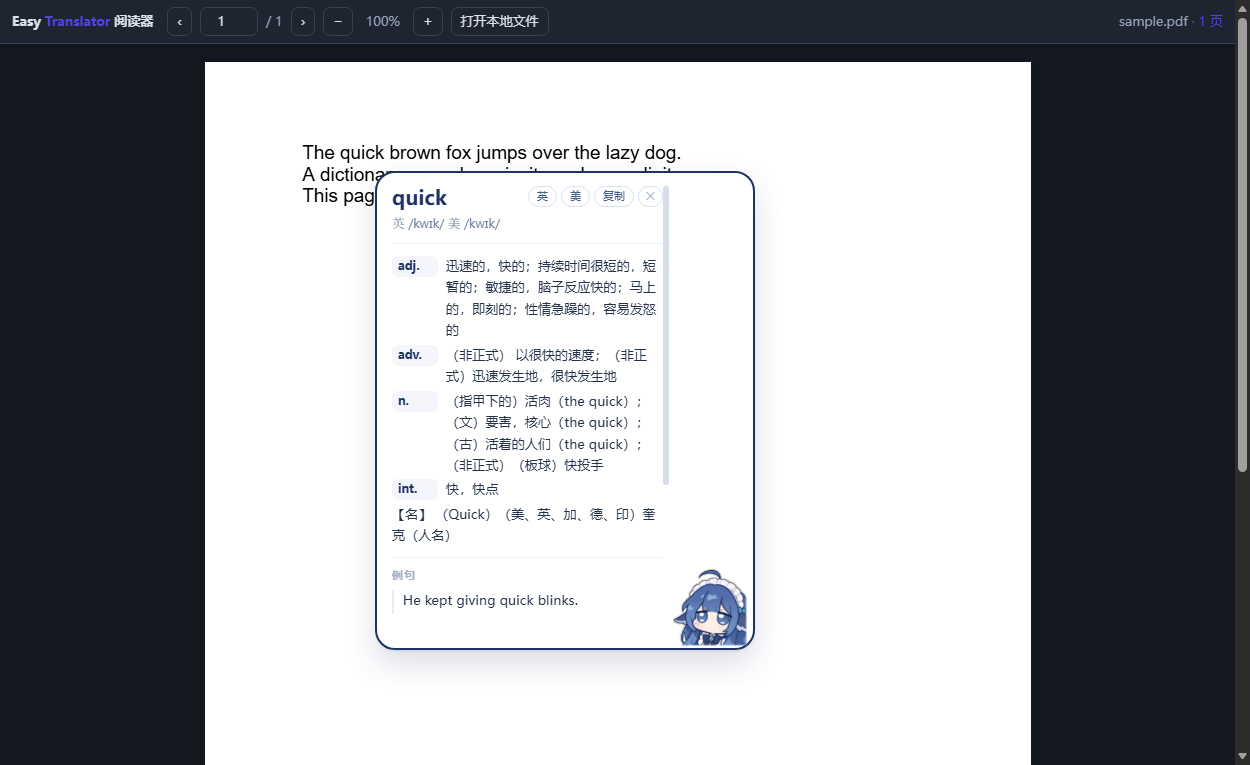
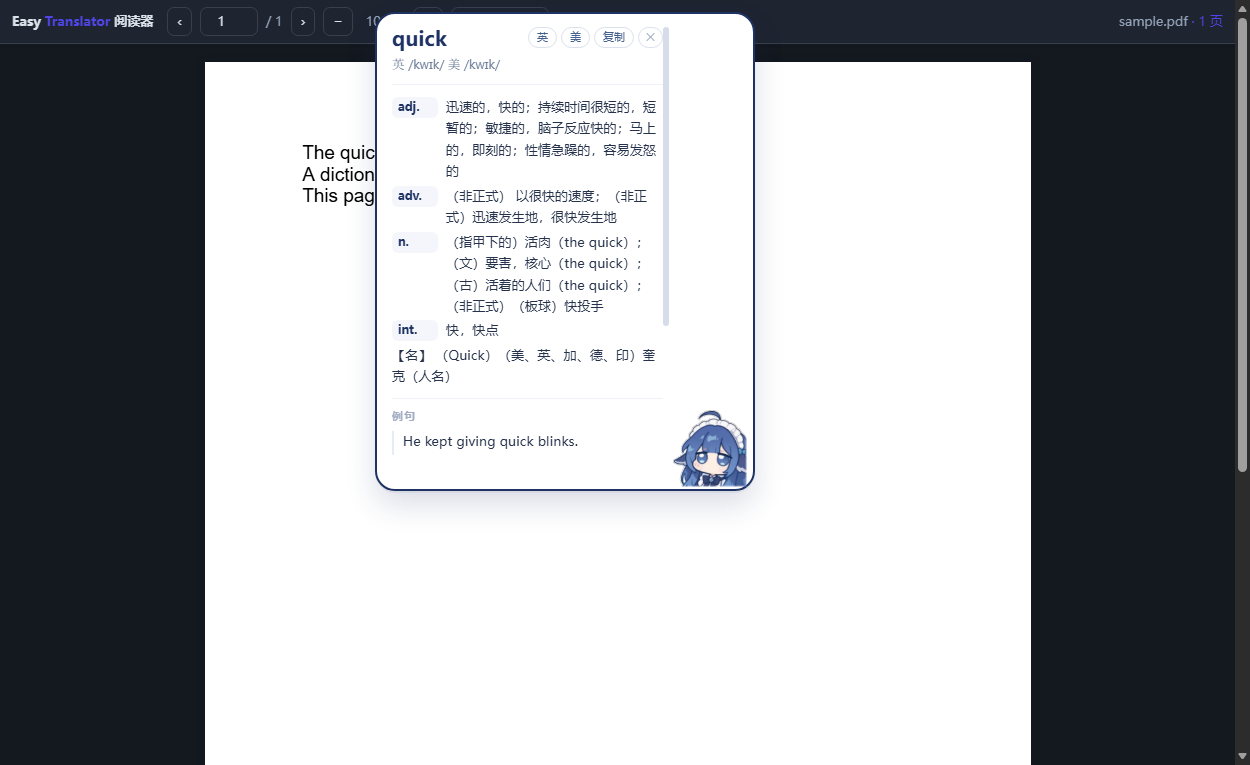
fix(css): 高对比度下卡片被剥成空框（用户实测「框出来了、文字不见」）
诊断（机器取证，不是猜）：
  · Edge 扩展设置存在 **Secure Preferences**，我之前的 diagnose 读 Preferences → 误判「没装」；
    改从两个文件合并读（并支持按 path 匹配未打包加载），工具不再误导。
  · 实际加载路径 = 项目目录，其 content/hover-core.js 与仓库 **md5 完全一致**（144eaeab…）。
  · 本机 **Windows 高对比度是开着的**（HKCU\\...\\HighContrast Flags=126）——
    强制颜色模式下浏览器会替换作者指定的 background/color，自绘卡片就被剥成空框，
    与用户截图的像素特征（白框 + 几乎无墨迹）吻合。
修法：.et-card 声明 forced-color-adjust: none（卡片是自成一体的阅读块，
保持设计一致），并给出 @media (forced-colors: active) 的系统色兜底（Canvas/CanvasText）。
顺带清掉 check-ui.py 里解析已删除 .et-tail 的死代码（上轮删规则没删解析 → 检查器崩），
并把「高对比度不被剥成空框」钉成常驻不变量；预览图逐像素比对改为只比全不透明处
（羽化后边缘半透明，合成图与原始像素不可直接比）。

验证：check:ui 21/21、真机 E2E 37/37、打包自检 18/18、npm test 28/28。

diff --git a/content/card.css b/content/card.css
@@ -53,6 +53,24 @@
 
 /* 尾点按用户要求**不画**（曾压在鲸鱼娘脸上，像多了一个黑色小圈圈） */
 
+/* —— 高对比度/强制颜色模式 ——
+   Windows 开启「高对比度」时，浏览器会把作者指定的 background/color 替换成系统色，
+   自绘卡片会被剥成一个空框（用户实测：框出来了、文字不见）。
+   卡片是自成一体的阅读块，这里声明**不参与**强制替换，保证和设计一致、始终可读；
+   同时用系统色兜底：万一浏览器仍强制，至少边框与文字是高对比的。 */
+.et-card {
+  forced-color-adjust: none;
+}
+@media (forced-colors: active) {
+  .et-card {
+    background: Canvas;
+    border: 2px solid CanvasText;
+  }
+  .et-word, .et-pos, .et-meaning, .et-ex-en, .et-ex-zh, .et-phon, .et-message, .et-foot, .et-source {
+    color: CanvasText !important;
+  }
+}
+
 /* —— 鲸鱼娘：贴在**整个对话框的右下角**（白底内，不透明，任何页面都看得清） —— */
 .et-mascot {
   position: absolute;

diff --git a/tools/check-ui.py b/tools/check-ui.py
@@ -148,19 +148,18 @@ def px_of(block, prop):
 
 
 m_block = css.split(".et-mascot {")[1].split("}")[0]
-t_block = css.split(".et-tail {")[1].split("}")[0]
 m_right, m_bottom, m_w = px_of(m_block, "right"), px_of(m_block, "bottom"), px_of(m_block, "width")
-t_right, t_bottom = px_of(t_block, "right"), px_of(t_block, "bottom")
 CARD_W, CARD_H = 380, 502          # 布局探针实测的卡片尺寸
 m_h = round(m_w * art.height / art.width)
 m_left, m_top = CARD_W - m_right - m_w, CARD_H - m_bottom - m_h
-css_mouth = (m_left + round(m_w * MOUTH[0]), m_top + round(m_h * MOUTH[1]))
-dots_right, dots_bottom = CARD_W - t_right, CARD_H - t_bottom + 6   # 第二颗点有 -6px 下边距
 check("CSS 里她贴在整个对话框的右下角", m_right <= 10 and m_bottom <= 4,
       "right=%s bottom=%s" % (m_right, m_bottom))
 check("CSS 是白底气泡（不透明背景）", "background: #ffffff" in css and ".et-card" in css)
 check("CSS 里尾点已按要求去掉（.et-tail/.et-dot 不再有绘制规则）",
       ".et-tail {" not in css and ".et-dot {" not in css)
+# 用户实测「框出来了、文字不见」→ 根因是 Windows 高对比度下的强制颜色替换（机器 Flags=126）
+check("CSS 在高对比度下不会被剥成空框（forced-color-adjust + 系统色兜底）",
+      "forced-color-adjust: none" in css and "@media (forced-colors: active)" in css)
 
 print("\n⑤ 资产新鲜度（预览图是否由当前立绘生成）")
 prev_path = os.path.join(ROOT, "docs", "mascot-preview.png")
@@ -172,8 +171,8 @@ if os.path.exists(prev_path):
     for y in range(0, big.height, 2):
         for x in range(0, big.width, 2):
             r, g, b, a = bpx[x, y]
-            if a < 120:
-                continue
+            if a < 250:
+                continue      # 羽化后边缘是半透明；预览是合成图，只在**全不透明**处逐像素比才成立
             pr, pg, pb = ppx[16 + x, 16 + y]
             if abs(pr - r) <= 3 and abs(pg - g) <= 3 and abs(pb - b) <= 3:
                 same += 1
